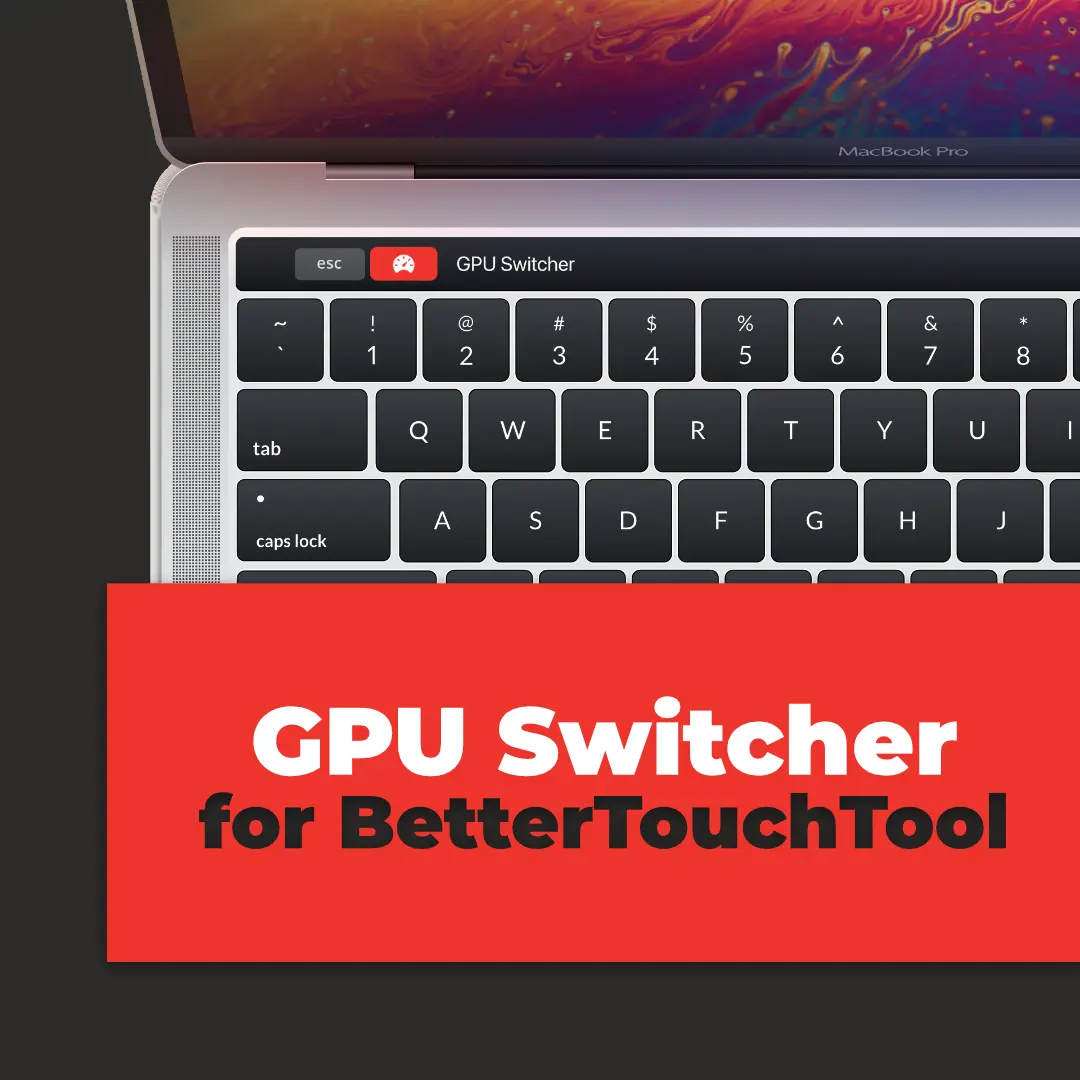
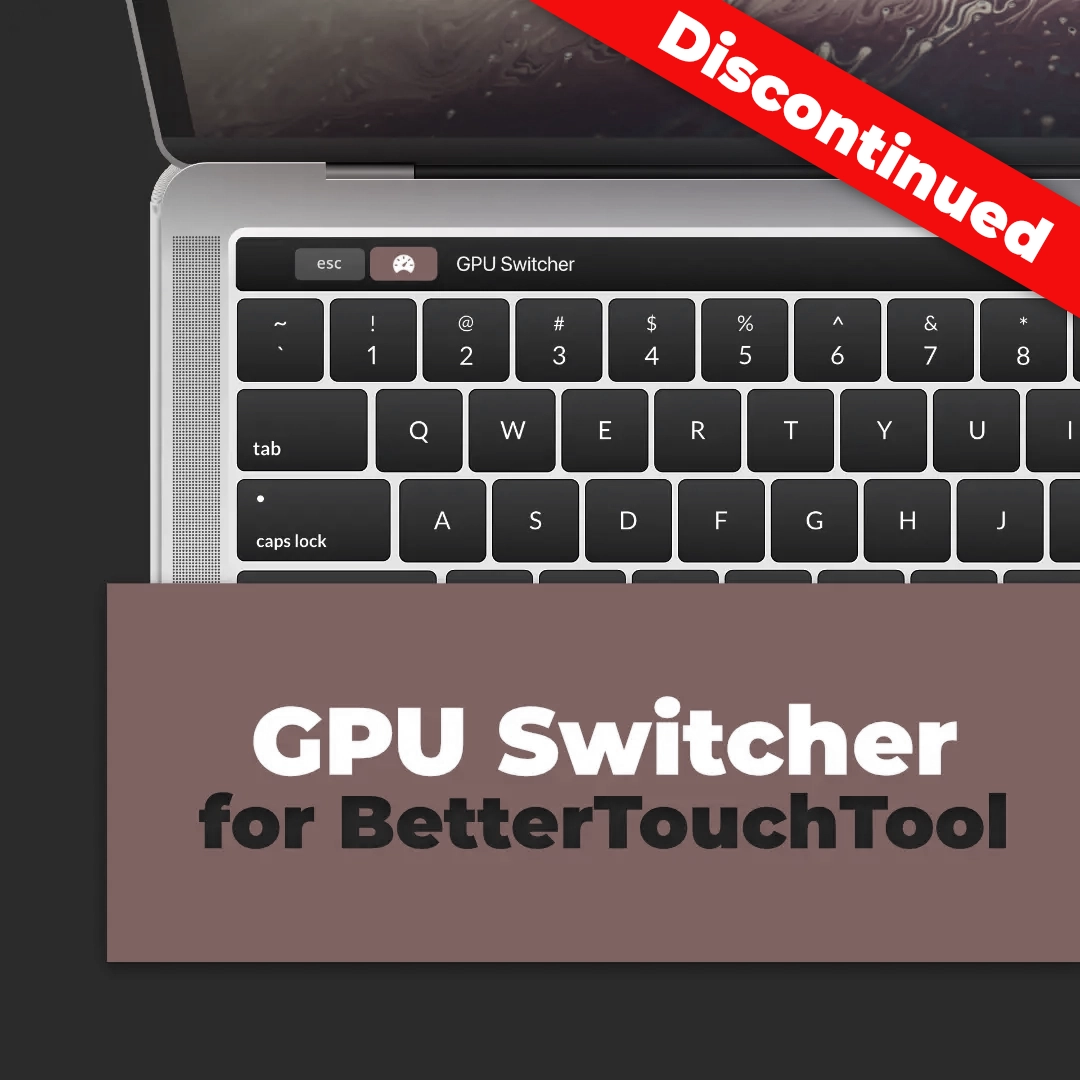
241001
- Marked the 'Hi Notch!' project as discontinued
- Replaced previews of all discontinued projects with a new graphics

diff --git a/pl/projects/other/btt-hi-notch.html b/pl/projects/other/btt-hi-notch.html
@@ -51,13 +51,13 @@
                 </div>
                 <div class="header-text">
                     <h1 class="title" id="otherBTTHiNotchTitle">Hi Notch!</h1>
+                    <h2 class="subtitle" id="otherBTTHiNotchSubtitle">Projekt nierozwijany</h2>
+                    <br>
                     <div class="verified" onclick="window.open('https://community.folivora.ai/c/setup-preset-sharing/developer-verified-presets/9')">
                         <svg class="verified-icon" viewBox="0 0 84 84"><path d="M37.24,43.924l-4.514,-4.514c-0.926,-0.926 -1.939,-1.375 -3.038,-1.346c-1.1,0.029 -2.084,0.478 -2.952,1.346c-0.926,0.926 -1.389,1.938 -1.389,3.038c0,1.099 0.463,2.112 1.389,3.038l7.552,7.465c0.868,0.868 1.852,1.302 2.952,1.302c1.099,0 2.083,-0.434 2.951,-1.302l16.58,-16.579c0.868,-0.869 1.316,-1.881 1.345,-3.039c0.029,-1.157 -0.419,-2.17 -1.345,-3.038c-0.868,-0.868 -1.852,-1.287 -2.952,-1.259c-1.099,0.029 -2.083,0.478 -2.951,1.346l-13.628,13.542Zm-10.243,33.42l-5.122,-8.594l-9.722,-2.344c-1.1,-0.289 -1.953,-0.839 -2.561,-1.649c-0.608,-0.81 -0.854,-1.765 -0.738,-2.865l0.868,-9.982l-6.684,-7.379c-0.752,-0.868 -1.128,-1.823 -1.128,-2.864c-0,-1.042 0.376,-1.997 1.128,-2.865l6.684,-7.378l-0.868,-9.983c-0.116,-1.1 0.13,-2.054 0.738,-2.865c0.608,-0.81 1.461,-1.36 2.561,-1.649l9.722,-2.344l5.122,-8.593c0.52,-0.868 1.287,-1.491 2.3,-1.867c1.013,-0.376 2.04,-0.361 3.081,0.044l9.289,4.08l9.288,-4.08c1.042,-0.405 2.069,-0.42 3.081,-0.044c1.013,0.376 1.78,0.999 2.301,1.867l5.121,8.593l9.723,2.344c1.099,0.289 1.953,0.839 2.56,1.649c0.608,0.811 0.854,1.765 0.738,2.865l-0.868,9.983l6.684,7.378c0.752,0.868 1.129,1.823 1.129,2.865c-0,1.041 -0.377,1.996 -1.129,2.864l-6.684,7.379l0.868,9.982c0.116,1.1 -0.13,2.055 -0.738,2.865c-0.607,0.81 -1.461,1.36 -2.56,1.649l-9.723,2.344l-5.121,8.594c-0.521,0.868 -1.288,1.49 -2.301,1.866c-1.012,0.376 -2.039,0.362 -3.081,-0.043l-9.288,-4.08l-9.289,4.08c-1.041,0.405 -2.068,0.419 -3.081,0.043c-1.013,-0.376 -1.78,-0.998 -2.3,-1.866Z" style="fill:var(--color-accent-2);fill-rule:nonzero;"/></svg>
                         <span class="verified-text">Zweryfikowane przez dewelopera BetterTouchTool</span>
                     </div>
                     <p class="description" id="otherBTTHiNotchDescription">Hi Notch! to preset dla BetterTouchTool. Sprawia, że korzystanie z MacBooka jest jeszcze bardziej produktywne. Wyświetla dodatkowe przyciski i statusy aktywnych aplikacji, takich jak przeglądarki internetowe, Apple Music, Microsoft Teams czy Zoom.<br>BetterTouchTool jest znakiem towarowym folivora.AI GmbH.</p>
-                    <a href="btt://importviaurl/https://github.com/MStankiewiczOfficial/Hi-Notch/releases/latest/download/Hi.Notch.bttpresetzip" tabindex="-1"><button id="importBTT">Importuj do BTT</button></a>
-                    <a href="https://github.com/MStankiewiczOfficial/Hi-Notch/releases/latest/download/Hi.Notch.bttpresetzip " tabindex="-1"><button id="downloadFile">Pobierz jako plik</button></a>
                     <a href="https://github.com/MStankiewiczOfficial/Hi-Notch" tabindex="-1"><button id="seeRepo">Zobacz repozytorium</button></a>
                 </div>
             </div>

diff --git a/en/projects/other/btt-hi-notch.html b/en/projects/other/btt-hi-notch.html
@@ -51,13 +51,13 @@
                 </div>
                 <div class="header-text">
                     <h1 class="title" id="otherBTTHiNotchTitle">Hi Notch!</h1>
+                    <h2 class="subtitle" id="otherBTTHiNotchSubtitle">Discontinued</h2>
+                    <br>
                     <div class="verified" onclick="window.open('https://community.folivora.ai/c/setup-preset-sharing/developer-verified-presets/9')">
                         <svg class="verified-icon" viewBox="0 0 84 84"><path d="M37.24,43.924l-4.514,-4.514c-0.926,-0.926 -1.939,-1.375 -3.038,-1.346c-1.1,0.029 -2.084,0.478 -2.952,1.346c-0.926,0.926 -1.389,1.938 -1.389,3.038c0,1.099 0.463,2.112 1.389,3.038l7.552,7.465c0.868,0.868 1.852,1.302 2.952,1.302c1.099,0 2.083,-0.434 2.951,-1.302l16.58,-16.579c0.868,-0.869 1.316,-1.881 1.345,-3.039c0.029,-1.157 -0.419,-2.17 -1.345,-3.038c-0.868,-0.868 -1.852,-1.287 -2.952,-1.259c-1.099,0.029 -2.083,0.478 -2.951,1.346l-13.628,13.542Zm-10.243,33.42l-5.122,-8.594l-9.722,-2.344c-1.1,-0.289 -1.953,-0.839 -2.561,-1.649c-0.608,-0.81 -0.854,-1.765 -0.738,-2.865l0.868,-9.982l-6.684,-7.379c-0.752,-0.868 -1.128,-1.823 -1.128,-2.864c-0,-1.042 0.376,-1.997 1.128,-2.865l6.684,-7.378l-0.868,-9.983c-0.116,-1.1 0.13,-2.054 0.738,-2.865c0.608,-0.81 1.461,-1.36 2.561,-1.649l9.722,-2.344l5.122,-8.593c0.52,-0.868 1.287,-1.491 2.3,-1.867c1.013,-0.376 2.04,-0.361 3.081,0.044l9.289,4.08l9.288,-4.08c1.042,-0.405 2.069,-0.42 3.081,-0.044c1.013,0.376 1.78,0.999 2.301,1.867l5.121,8.593l9.723,2.344c1.099,0.289 1.953,0.839 2.56,1.649c0.608,0.811 0.854,1.765 0.738,2.865l-0.868,9.983l6.684,7.378c0.752,0.868 1.129,1.823 1.129,2.865c-0,1.041 -0.377,1.996 -1.129,2.864l-6.684,7.379l0.868,9.982c0.116,1.1 -0.13,2.055 -0.738,2.865c-0.607,0.81 -1.461,1.36 -2.56,1.649l-9.723,2.344l-5.121,8.594c-0.521,0.868 -1.288,1.49 -2.301,1.866c-1.012,0.376 -2.039,0.362 -3.081,-0.043l-9.288,-4.08l-9.289,4.08c-1.041,0.405 -2.068,0.419 -3.081,0.043c-1.013,-0.376 -1.78,-0.998 -2.3,-1.866Z" style="fill:var(--color-accent-2);fill-rule:nonzero;"/></svg>
                         <span class="verified-text">Verified by BetterTouchTool developer</span>
                     </div>
                     <p class="description" id="otherBTTHiNotchDescription">Hi Notch! is a preset for BetterTouchTool. It makes using your MacBook even more productive. It displays additional buttons and statuses of active applications such as web browsers, Apple Music, Microsoft Teams or Zoom.<br>BetterTouchTool is a trademark of folivora.AI GmbH.</p>
-                    <a href="btt://importviaurl/https://github.com/MStankiewiczOfficial/Hi-Notch/releases/latest/download/Hi.Notch.bttpresetzip" tabindex="-1"><button id="importBTT">Import to BTT</button></a>
-                    <a href="https://github.com/MStankiewiczOfficial/Hi-Notch/releases/latest/download/Hi.Notch.bttpresetzip " tabindex="-1"><button id="downloadFile">Download as file</button></a>
                     <a href="https://github.com/MStankiewiczOfficial/Hi-Notch" tabindex="-1"><button id="seeRepo">View the repository</button></a>
                 </div>
             </div>
